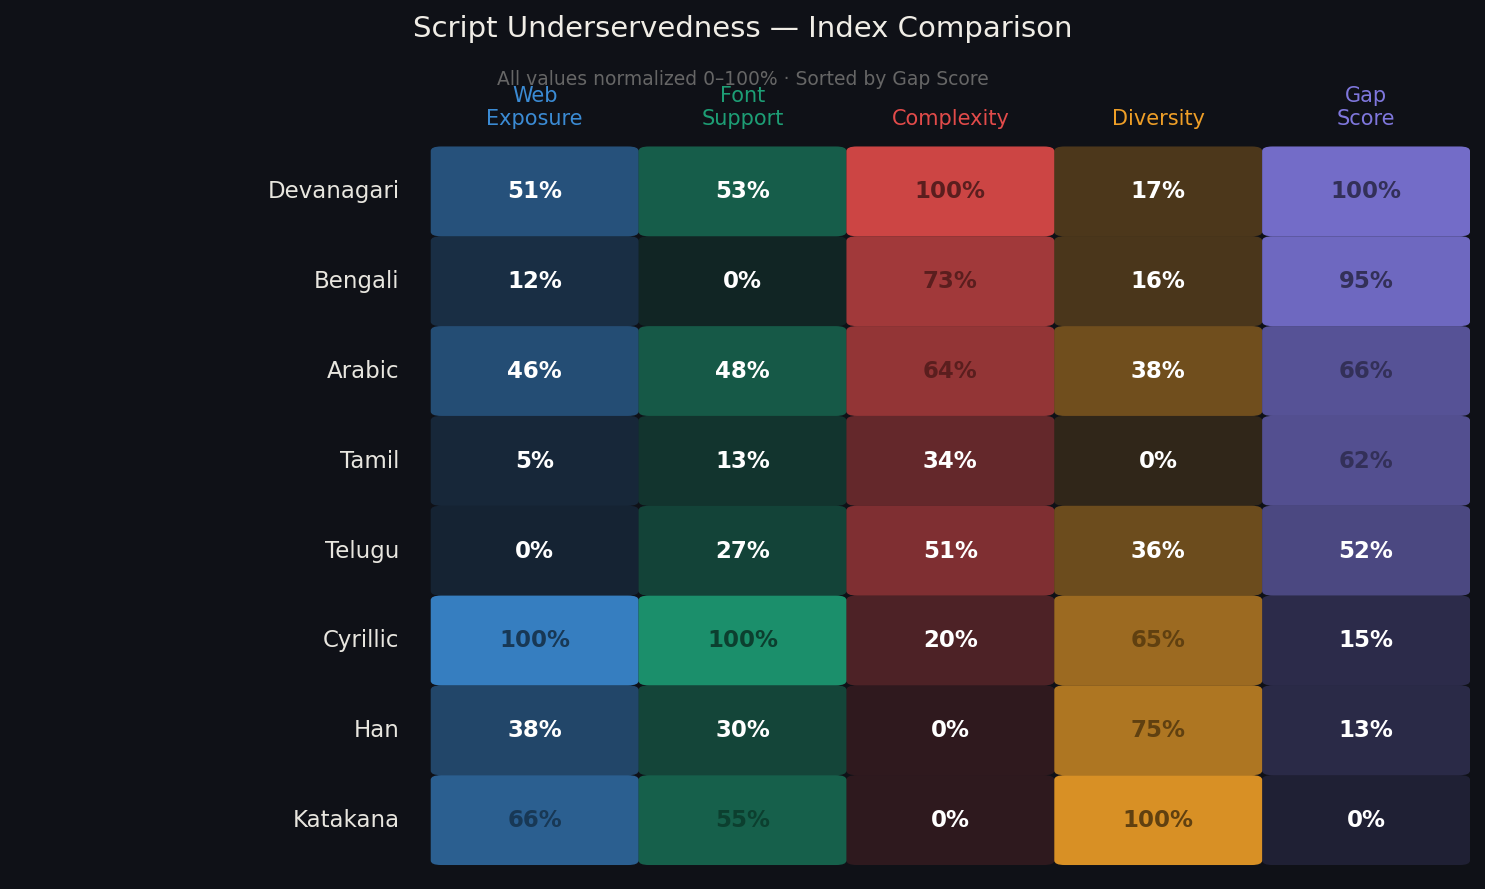
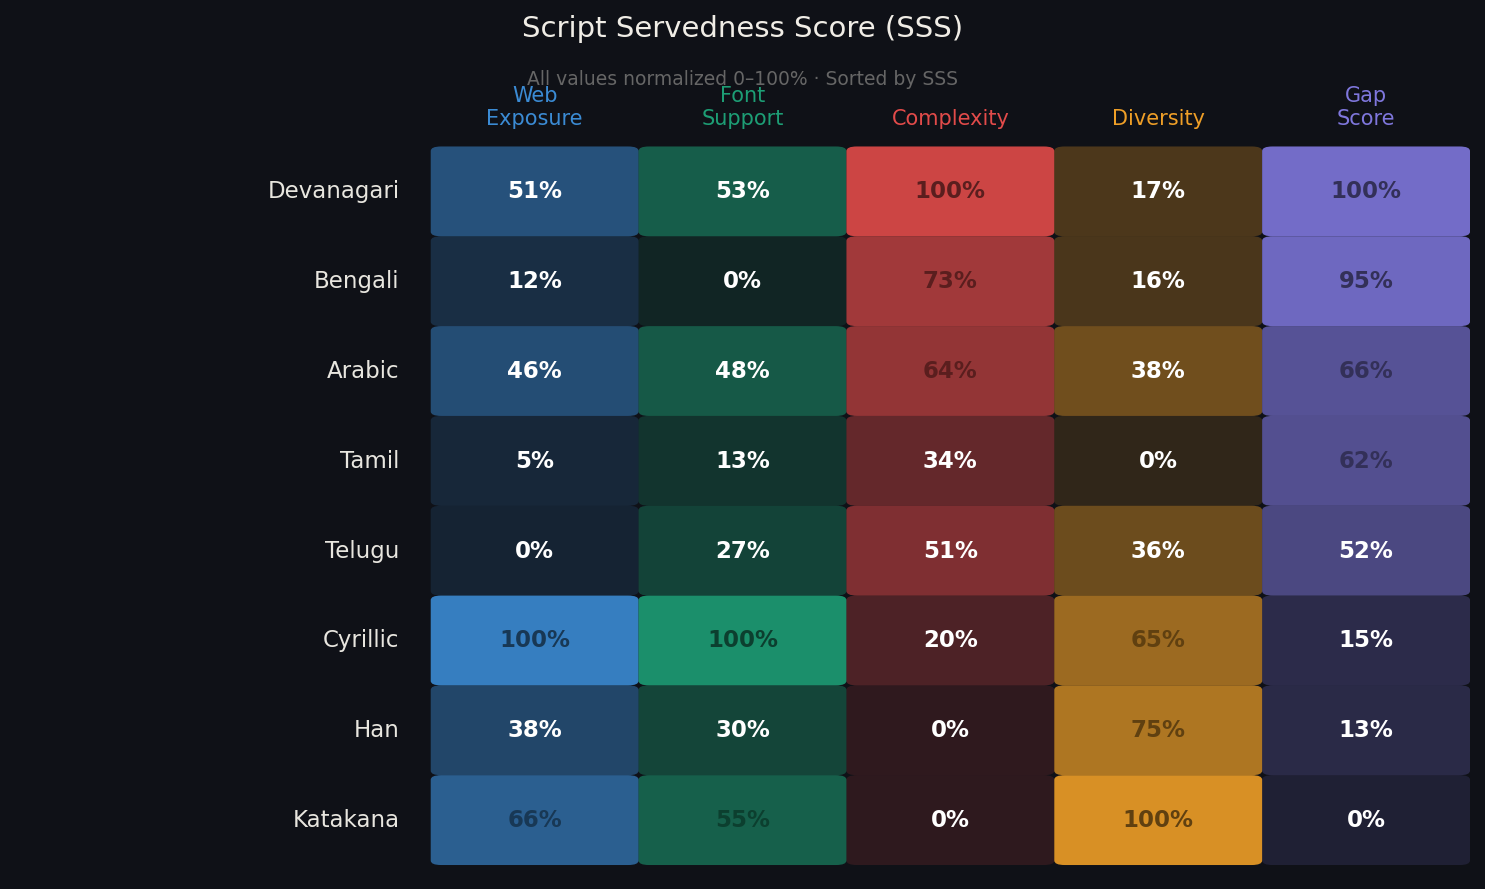
Added the SSS and the correct sizing

Changed region(s): [[0.2788, 0.0, 0.7125, 0.0911]]

diff --git a/data_viz/viz_outputs/heatmap.html b/data_viz/viz_outputs/heatmap.html
@@ -124,9 +124,9 @@
 </head>
 <body>
 
-<h1>Script Underservedness — Index Comparison</h1>
+<h1>Script Servedness Score (SSS)</h1>
 <p class="subtitle">
-  TRC / Monotype / UCF MIT2 Lab · All values normalized 0–1 · Sorted by Gap Score (most underserved first)
+  TRC / Monotype / Sawyer Lab · All values normalized 0–1 · Sorted by SSS (most underserved first)
 </p>
 
 <div class="heatmap-wrap">
@@ -141,13 +141,13 @@
 </div>
 
 <div class="legend" id="legend"></div>
-<p class="note">Hover over any cell for the raw value. Gap Score = composite underservedness signal.</p>
+<p class="note">Hover over any cell for the raw value. SSS = Script Servedness Score — combines all four indices.</p>
 
 <div class="tooltip" id="tooltip"></div>
 
 <script>
-const data = [{"script": "Devanagari", "cells": [{"norm": 0.5135, "raw": "192,989", "label": "Web Exposure", "color": "#3B8BD4"}, {"norm": 0.5268, "raw": "62", "label": "Font Support", "color": "#1D9E75"}, {"norm": 1.0, "raw": "0.847", "label": "Complexity", "color": "#E24B4A"}, {"norm": 0.166, "raw": "0.166", "label": "Diversity", "color": "#EF9F27"}, {"norm": 1.0, "raw": "1.557", "label": "Gap Score", "color": "#7F77DD"}]}, {"script": "Bengali", "cells": [{"norm": 0.1171, "raw": "23,006", "label": "Web Exposure", "color": "#3B8BD4"}, {"norm": 0.0, "raw": "11", "label": "Font Support", "color": "#1D9E75"}, {"norm": 0.7264, "raw": "0.615", "label": "Complexity", "color": "#E24B4A"}, {"norm": 0.1552, "raw": "0.155", "label": "Diversity", "color": "#EF9F27"}, {"norm": 0.9475, "raw": "1.415", "label": "Gap Score", "color": "#7F77DD"}]}, {"script": "Arabic", "cells": [{"norm": 0.4609, "raw": "145,526", "label": "Web Exposure", "color": "#3B8BD4"}, {"norm": 0.4848, "raw": "54", "label": "Font Support", "color": "#1D9E75"}, {"norm": 0.6384, "raw": "0.541", "label": "Complexity", "color": "#E24B4A"}, {"norm": 0.3811, "raw": "0.381", "label": "Diversity", "color": "#EF9F27"}, {"norm": 0.6586, "raw": "0.629", "label": "Gap Score", "color": "#7F77DD"}]}, {"script": "Tamil", "cells": [{"norm": 0.0461, "raw": "15,721", "label": "Web Exposure", "color": "#3B8BD4"}, {"norm": 0.1326, "raw": "17", "label": "Font Support", "color": "#1D9E75"}, {"norm": 0.343, "raw": "0.290", "label": "Complexity", "color": "#E24B4A"}, {"norm": 0.0, "raw": "0.000", "label": "Diversity", "color": "#EF9F27"}, {"norm": 0.6232, "raw": "0.533", "label": "Gap Score", "color": "#7F77DD"}]}, {"script": "Telugu", "cells": [{"norm": 0.0, "raw": "12,278", "label": "Web Exposure", "color": "#3B8BD4"}, {"norm": 0.2736, "raw": "27", "label": "Font Support", "color": "#1D9E75"}, {"norm": 0.511, "raw": "0.433", "label": "Complexity", "color": "#E24B4A"}, {"norm": 0.3583, "raw": "0.358", "label": "Diversity", "color": "#EF9F27"}, {"norm": 0.5203, "raw": "0.253", "label": "Gap Score", "color": "#7F77DD"}]}, {"script": "Cyrillic", "cells": [{"norm": 1.0, "raw": "2,623,937", "label": "Web Exposure", "color": "#3B8BD4"}, {"norm": 1.0, "raw": "293", "label": "Font Support", "color": "#1D9E75"}, {"norm": 0.1969, "raw": "0.167", "label": "Complexity", "color": "#E24B4A"}, {"norm": 0.6475, "raw": "0.647", "label": "Diversity", "color": "#EF9F27"}, {"norm": 0.1498, "raw": "-0.754", "label": "Gap Score", "color": "#7F77DD"}]}, {"script": "Han", "cells": [{"norm": 0.384, "raw": "96,340", "label": "Web Exposure", "color": "#3B8BD4"}, {"norm": 0.2953, "raw": "29", "label": "Font Support", "color": "#1D9E75"}, {"norm": 0.0022, "raw": "0.002", "label": "Complexity", "color": "#E24B4A"}, {"norm": 0.7491, "raw": "0.749", "label": "Diversity", "color": "#EF9F27"}, {"norm": 0.1314, "raw": "-0.804", "label": "Gap Score", "color": "#7F77DD"}]}, {"script": "Katakana", "cells": [{"norm": 0.6649, "raw": "434,832", "label": "Web Exposure", "color": "#3B8BD4"}, {"norm": 0.5505, "raw": "67", "label": "Font Support", "color": "#1D9E75"}, {"norm": 0.0, "raw": "0.000", "label": "Complexity", "color": "#E24B4A"}, {"norm": 1.0, "raw": "1.000", "label": "Diversity", "color": "#EF9F27"}, {"norm": 0.0, "raw": "-1.161", "label": "Gap Score", "color": "#7F77DD"}]}];
-const metrics = [{"label": "Web Exposure", "desc": "Higher = more readers", "color": "#3B8BD4"}, {"label": "Font Support", "desc": "Higher = more fonts", "color": "#1D9E75"}, {"label": "Complexity", "desc": "Higher = harder to engineer", "color": "#E24B4A"}, {"label": "Diversity", "desc": "Higher = more visual choice", "color": "#EF9F27"}, {"label": "Gap Score", "desc": "Higher = more underserved", "color": "#7F77DD"}];
+const data = [{"script": "Devanagari", "cells": [{"norm": 0.5135, "raw": "192,989", "label": "Web Exposure", "color": "#3B8BD4"}, {"norm": 0.5268, "raw": "62", "label": "Font Support", "color": "#1D9E75"}, {"norm": 1.0, "raw": "0.847", "label": "Complexity", "color": "#E24B4A"}, {"norm": 0.166, "raw": "0.166", "label": "Diversity", "color": "#EF9F27"}, {"norm": 1.0, "raw": "1.557", "label": "SSS", "color": "#7F77DD"}]}, {"script": "Bengali", "cells": [{"norm": 0.1171, "raw": "23,006", "label": "Web Exposure", "color": "#3B8BD4"}, {"norm": 0.0, "raw": "11", "label": "Font Support", "color": "#1D9E75"}, {"norm": 0.7264, "raw": "0.615", "label": "Complexity", "color": "#E24B4A"}, {"norm": 0.1552, "raw": "0.155", "label": "Diversity", "color": "#EF9F27"}, {"norm": 0.9475, "raw": "1.415", "label": "SSS", "color": "#7F77DD"}]}, {"script": "Arabic", "cells": [{"norm": 0.4609, "raw": "145,526", "label": "Web Exposure", "color": "#3B8BD4"}, {"norm": 0.4848, "raw": "54", "label": "Font Support", "color": "#1D9E75"}, {"norm": 0.6384, "raw": "0.541", "label": "Complexity", "color": "#E24B4A"}, {"norm": 0.3811, "raw": "0.381", "label": "Diversity", "color": "#EF9F27"}, {"norm": 0.6586, "raw": "0.629", "label": "SSS", "color": "#7F77DD"}]}, {"script": "Tamil", "cells": [{"norm": 0.0461, "raw": "15,721", "label": "Web Exposure", "color": "#3B8BD4"}, {"norm": 0.1326, "raw": "17", "label": "Font Support", "color": "#1D9E75"}, {"norm": 0.343, "raw": "0.290", "label": "Complexity", "color": "#E24B4A"}, {"norm": 0.0, "raw": "0.000", "label": "Diversity", "color": "#EF9F27"}, {"norm": 0.6232, "raw": "0.533", "label": "SSS", "color": "#7F77DD"}]}, {"script": "Telugu", "cells": [{"norm": 0.0, "raw": "12,278", "label": "Web Exposure", "color": "#3B8BD4"}, {"norm": 0.2736, "raw": "27", "label": "Font Support", "color": "#1D9E75"}, {"norm": 0.511, "raw": "0.433", "label": "Complexity", "color": "#E24B4A"}, {"norm": 0.3583, "raw": "0.358", "label": "Diversity", "color": "#EF9F27"}, {"norm": 0.5203, "raw": "0.253", "label": "SSS", "color": "#7F77DD"}]}, {"script": "Cyrillic", "cells": [{"norm": 1.0, "raw": "2,623,937", "label": "Web Exposure", "color": "#3B8BD4"}, {"norm": 1.0, "raw": "293", "label": "Font Support", "color": "#1D9E75"}, {"norm": 0.1969, "raw": "0.167", "label": "Complexity", "color": "#E24B4A"}, {"norm": 0.6475, "raw": "0.647", "label": "Diversity", "color": "#EF9F27"}, {"norm": 0.1498, "raw": "-0.754", "label": "SSS", "color": "#7F77DD"}]}, {"script": "Han", "cells": [{"norm": 0.384, "raw": "96,340", "label": "Web Exposure", "color": "#3B8BD4"}, {"norm": 0.2953, "raw": "29", "label": "Font Support", "color": "#1D9E75"}, {"norm": 0.0022, "raw": "0.002", "label": "Complexity", "color": "#E24B4A"}, {"norm": 0.7491, "raw": "0.749", "label": "Diversity", "color": "#EF9F27"}, {"norm": 0.1314, "raw": "-0.804", "label": "SSS", "color": "#7F77DD"}]}, {"script": "Katakana", "cells": [{"norm": 0.6649, "raw": "434,832", "label": "Web Exposure", "color": "#3B8BD4"}, {"norm": 0.5505, "raw": "67", "label": "Font Support", "color": "#1D9E75"}, {"norm": 0.0, "raw": "0.000", "label": "Complexity", "color": "#E24B4A"}, {"norm": 1.0, "raw": "1.000", "label": "Diversity", "color": "#EF9F27"}, {"norm": 0.0, "raw": "-1.161", "label": "SSS", "color": "#7F77DD"}]}];
+const metrics = [{"label": "Web Exposure", "desc": "Higher = more readers", "color": "#3B8BD4"}, {"label": "Font Support", "desc": "Higher = more fonts", "color": "#1D9E75"}, {"label": "Complexity", "desc": "Higher = harder to engineer", "color": "#E24B4A"}, {"label": "Diversity", "desc": "Higher = more visual choice", "color": "#EF9F27"}, {"label": "SSS", "desc": "Higher = more underserved", "color": "#7F77DD"}];
 
 function hexToRgb(hex) {
   const r = parseInt(hex.slice(1,3),16);

diff --git a/data_viz/generate_heatmap.py b/data_viz/generate_heatmap.py
@@ -1,9 +1,9 @@
 """
 ===============================================================================
-Exposure vs Support vs Similarity vs Diversity — Heatmap Visualization
+Script Servedness Score (SSS) — Heatmap Visualization
 ===============================================================================
 Project:  TRC / Monotype — Identifying Underserved Scripts
-Author:   Aditya (UCF MIT2 Lab)
+Author:   Aditya (Sawyer Lab)
 Issue:    #27 — heatmap comparing all values across scripts
 
 Generates two outputs:
@@ -122,18 +122,18 @@ def load_all_data(repo: Path) -> pd.DataFrame:
         master[f"{col}_norm"] = (master[col] - cmin) / (cmax - cmin) if cmax > cmin else 0.5
 
     # Gap score: high exposure, low support, high complexity, low diversity
-    master["gap_score"] = (
+    master["sss"] = (
         master["log_exposure_norm"]
         - master["log_support_norm"] * 1.5
         + master["complexity_norm"] * 2.0
         - master["diversity_index_norm"]
     )
     # Normalize gap score to 0-1
-    gs_min, gs_max = master["gap_score"].min(), master["gap_score"].max()
-    master["gap_score_norm"] = (master["gap_score"] - gs_min) / (gs_max - gs_min)
+    gs_min, gs_max = master["sss"].min(), master["sss"].max()
+    master["sss_norm"] = (master["sss"] - gs_min) / (gs_max - gs_min)
 
     # Sort by gap score (most underserved first)
-    master = master.sort_values("gap_score_norm", ascending=False).reset_index(drop=True)
+    master = master.sort_values("sss_norm", ascending=False).reset_index(drop=True)
 
     logger.info(f"Loaded {len(master)} scripts")
     return master
@@ -154,7 +154,7 @@ def generate_html_heatmap(master: pd.DataFrame) -> str:
         ("log_support_norm",     "Font Support",   "Higher = more fonts",        "#1D9E75"),
         ("complexity_norm",      "Complexity",     "Higher = harder to engineer","#E24B4A"),
         ("diversity_index_norm", "Diversity",      "Higher = more visual choice","#EF9F27"),
-        ("gap_score_norm",       "Gap Score",      "Higher = more underserved",  "#7F77DD"),
+        ("sss_norm",       "SSS",      "Higher = more underserved",  "#7F77DD"),
     ]
 
     raw_cols = {
@@ -162,7 +162,7 @@ def generate_html_heatmap(master: pd.DataFrame) -> str:
         "log_support_norm":     ("support",        lambda v: f"{int(v)}"),
         "complexity_norm":      ("complexity",     lambda v: f"{v:.3f}"),
         "diversity_index_norm": ("diversity_index",lambda v: f"{v:.3f}"),
-        "gap_score_norm":       ("gap_score",      lambda v: f"{v:.3f}"),
+        "sss_norm":       ("sss",      lambda v: f"{v:.3f}"),
     }
 
     # Build cell data as JSON
@@ -313,9 +313,9 @@ def generate_html_heatmap(master: pd.DataFrame) -> str:
 </head>
 <body>
 
-<h1>Script Underservedness — Index Comparison</h1>
+<h1>Script Servedness Score (SSS)</h1>
 <p class="subtitle">
-  TRC / Monotype / UCF MIT2 Lab · All values normalized 0–1 · Sorted by Gap Score (most underserved first)
+  TRC / Monotype / Sawyer Lab · All values normalized 0–1 · Sorted by SSS (most underserved first)
 </p>
 
 <div class="heatmap-wrap">
@@ -330,7 +330,7 @@ def generate_html_heatmap(master: pd.DataFrame) -> str:
 </div>
 
 <div class="legend" id="legend"></div>
-<p class="note">Hover over any cell for the raw value. Gap Score = composite underservedness signal.</p>
+<p class="note">Hover over any cell for the raw value. SSS = Script Servedness Score — combines all four indices.</p>
 
 <div class="tooltip" id="tooltip"></div>
 
@@ -447,7 +447,7 @@ def generate_png_heatmap(master: pd.DataFrame, output_path: Path):
         ("log_support_norm",     "Font\nSupport",  "#1D9E75"),
         ("complexity_norm",      "Complexity",     "#E24B4A"),
         ("diversity_index_norm", "Diversity",      "#EF9F27"),
-        ("gap_score_norm",       "Gap\nScore",     "#7F77DD"),
+        ("sss_norm",       "Gap\nScore",     "#7F77DD"),
     ]
 
     matrix = np.array([
@@ -501,9 +501,9 @@ def generate_png_heatmap(master: pd.DataFrame, output_path: Path):
     ax.set_ylim(-0.1, n_scripts + 0.6)
     ax.axis("off")
 
-    fig.suptitle("Script Underservedness — Index Comparison",
+    fig.suptitle("Script Servedness Score (SSS)",
                  fontsize=14, color="#f0ede6", y=0.98, fontweight="500")
-    ax.set_title("All values normalized 0–100% · Sorted by Gap Score",
+    ax.set_title("All values normalized 0–100% · Sorted by SSS",
                  fontsize=9, color="#666", pad=4)
 
     plt.tight_layout()
@@ -527,7 +527,7 @@ def main():
 
     print("\n📊 Data loaded:\n")
     print(master[["script", "exposure", "support", "complexity",
-                   "diversity_index", "gap_score_norm"]].to_string(index=False))
+                   "diversity_index", "sss_norm"]].to_string(index=False))
 
     # HTML heatmap
     html = generate_html_heatmap(master)
